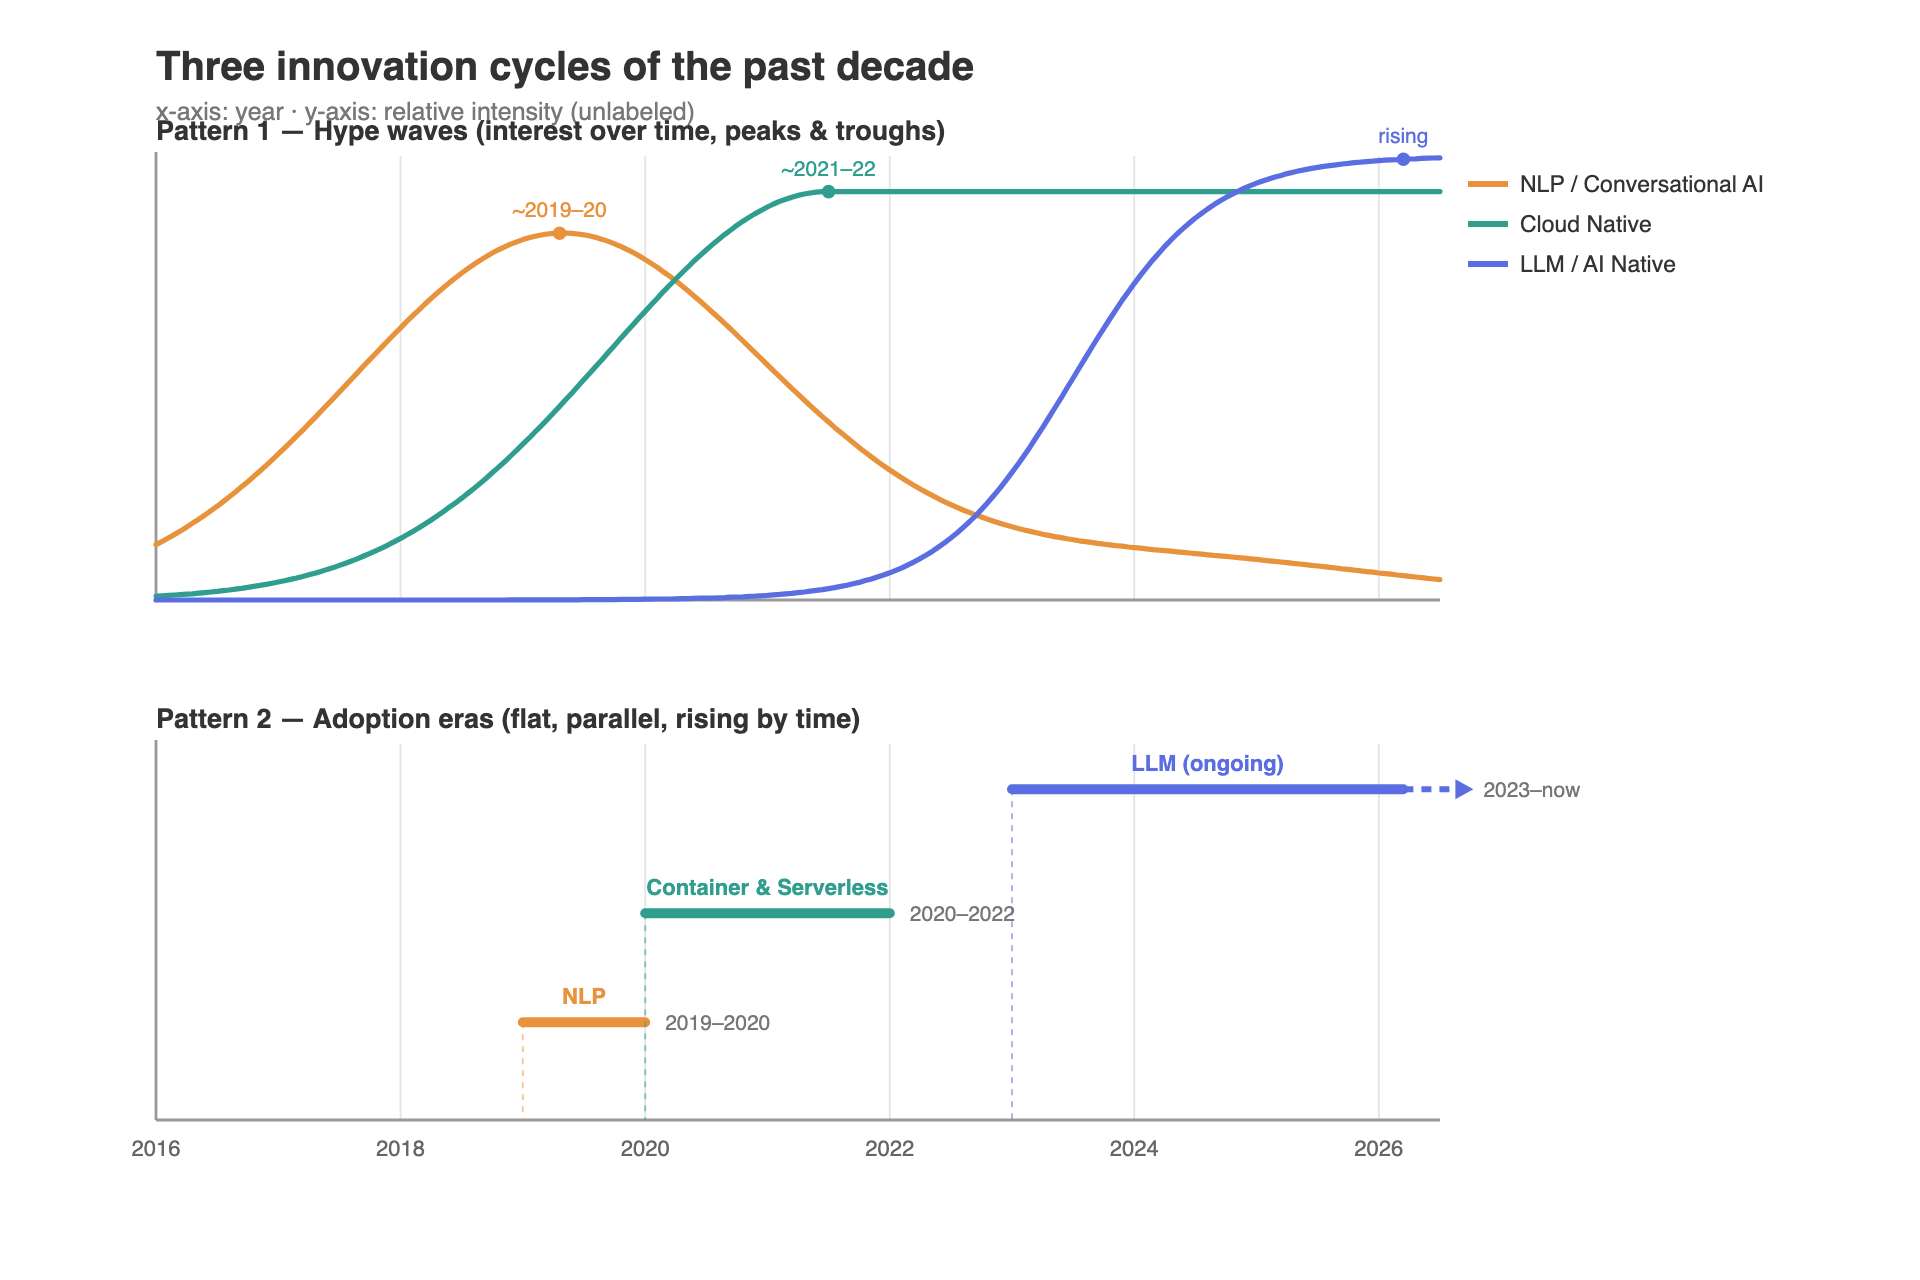
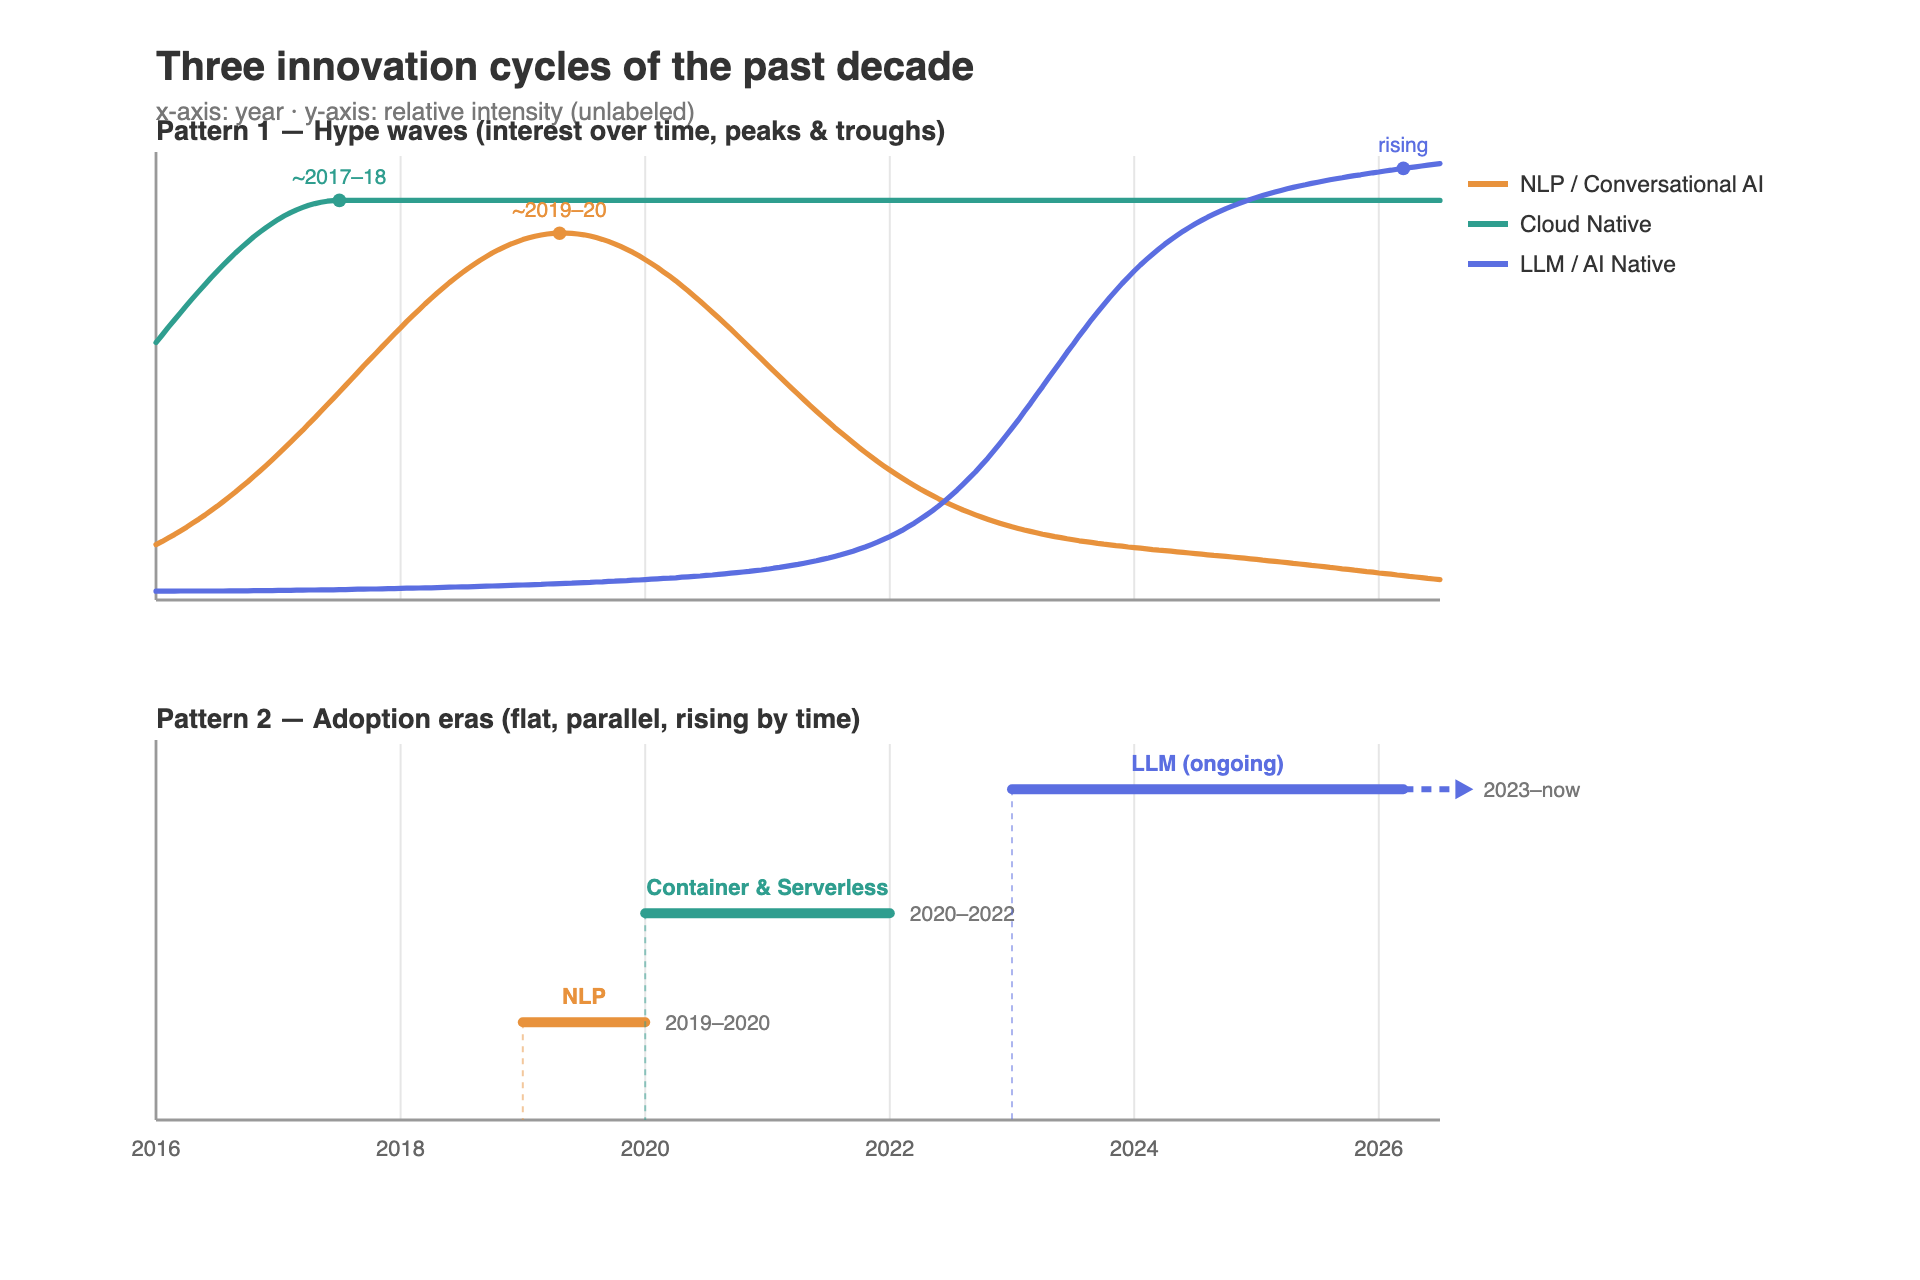
Correct innovation-cycle timelines for historical accuracy
- Cloud Native crests early (~2017-18, per K8s 2014 / CNCF 2015) then plateaus,
  instead of peaking 2021-22
- LLM/AI Native is no longer near-zero before 2022: add a slowly accelerating
  research floor (RL foundations from the 1980s -> 2024 Turing Award; 2017
  Transformer) before the late-2022 vertical takeoff
- Update Pattern 1 prose with the corrected timeline and cite the Turing Award
  and "Attention Is All You Need"

diff --git a/blog/2026/mlsys.html b/blog/2026/mlsys.html
@@ -291,7 +291,7 @@
             <img src="/assets/blog/mlsys/innovation-cycles.svg" alt="Two views of three innovation cycles over 2016-2026: hype waves and stacked adoption eras for NLP/Conversational AI, Cloud Native, and LLM/AI Native" class="img-fluid" style="max-width:100%;height:auto;margin:8px 0 16px 0;">
 
             <p>
-               <strong>Pattern 1 &mdash; hype waves (peaks &amp; troughs).</strong> Each technology has its own crest and decline in collective attention. <em>NLP / Conversational AI Understanding</em> crested around 2019&ndash;2020 (the chatbot and voice-assistant era), then faded as the work got absorbed into something bigger. <em>Cloud Native</em> peaked a bit later, around 2021&ndash;2022, as Kubernetes, containers, and serverless became the default substrate. <em>LLM / AI Native</em> was near-zero until late 2022, then took off vertically &mdash; and unlike the first two, its curve is still climbing in 2026.
+               <strong>Pattern 1 &mdash; hype waves (peaks &amp; troughs).</strong> Each technology has its own crest in collective attention. <em>Cloud Native</em> took off first &mdash; Kubernetes was open-sourced in 2014, the CNCF formed in 2015, and it became the default substrate by ~2017&ndash;2019, then plateaued rather than fading. <em>NLP / Conversational AI Understanding</em> crested around 2019&ndash;2020 (the chatbot and voice-assistant era), then got absorbed into something bigger. <em>LLM / AI Native</em> looks like it appeared overnight in late 2022 &mdash; but the curve was never zero. It sits on decades of reinforcement-learning foundations (Barto &amp; Sutton's work from the 1980s, recognized with the <a href="https://awards.acm.org/about/2024-turing" target="_blank">2024 Turing Award</a>) and the 2017 Transformer (<a href="https://arxiv.org/abs/1706.03762" target="_blank">&ldquo;Attention Is All You Need&rdquo;</a>). What changed in late 2022 was the <em>vertical takeoff</em> &mdash; and unlike the first two, its curve is still climbing in 2026.
             </p>
 
             <p>

diff --git a/backup/scripts/innovation_cycles.py b/backup/scripts/innovation_cycles.py
@@ -48,17 +48,21 @@ def logistic(x, x0, k, amp):
 def nlp(x):
     return gauss(x, 2019.3, 1.7, 0.82) + 0.10 * math.exp(-((x - 2024) ** 2) / 8)
 
-# Cloud Native (Kubernetes / containers / serverless): rises to ~2021.5, then
-# plateaus -- it became the default substrate, so it stays level rather than
-# declining on the right.
+# Cloud Native (Kubernetes 2014, CNCF 2015, de-facto standard 2017): crests
+# early (~2017-18), then plateaus -- it became the default substrate, so it
+# stays level rather than declining on the right.
 def cloud(x):
-    if x <= 2021.5:
-        return gauss(x, 2021.5, 1.8, 0.92)
-    return 0.92
+    if x <= 2017.5:
+        return gauss(x, 2017.5, 1.6, 0.90)
+    return 0.90
 
-# LLM / AI Native: near-zero until late 2022, S-curve still climbing in 2026
+# LLM / AI Native: NOT zero before 2022. It sits on a long research lineage --
+# RL foundations from the 1980s (Barto & Sutton, 2024 Turing Award) and the
+# 2017 Transformer -- modeled as a slowly accelerating floor, then the vertical
+# ChatGPT-era takeoff in late 2022; still climbing in 2026.
 def llm(x):
-    return logistic(x, 2023.5, 0.55, 1.0)
+    creep = 0.02 + 0.0015 * (x - Y0) ** 2
+    return creep + logistic(x, 2023.3, 0.55, 0.80)
 
 def polyline_points(fn, step=0.05):
     pts = []
@@ -118,8 +122,8 @@ for fn, color, label in [(nlp, C_NLP, "NLP / Conversational AI"),
                f'stroke-linejoin="round" stroke-linecap="round"/>')
 
 # peak markers (evidence: approximate peak years)
-peaks = [(2019.3, nlp(2019.3), C_NLP, "~2019–20"),
-         (2021.5, cloud(2021.5), C_CLOUD, "~2021–22"),
+peaks = [(2017.5, cloud(2017.5), C_CLOUD, "~2017–18"),
+         (2019.3, nlp(2019.3), C_NLP, "~2019–20"),
          (2026.2, llm(2026.2), C_LLM, "rising")]
 for yr, v, color, note in peaks:
     cx, cy = xpix(yr), ytop(v)
